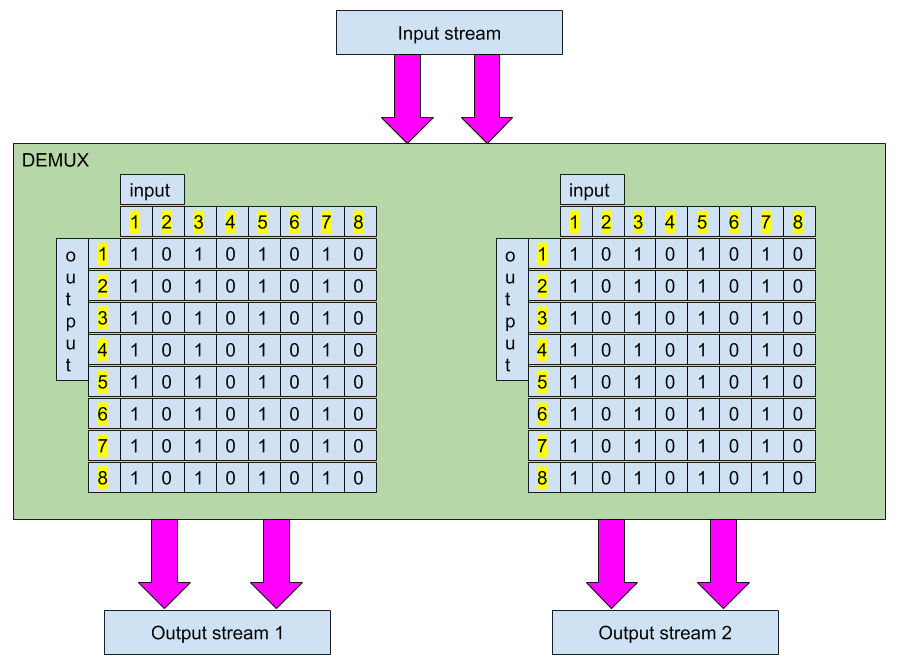
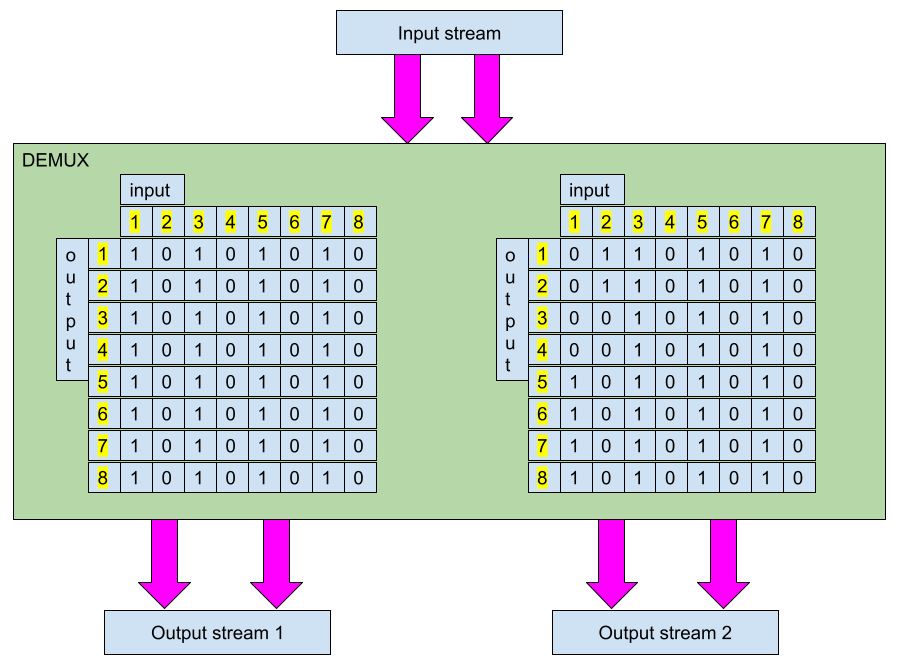
algos: fix demux documentation

diff --git a/algos/demux/demux.rst b/algos/demux/demux.rst
@@ -30,22 +30,29 @@ is fully configurable, we have a matrix for all multiplexer input
 streams or all demultiplexer output streams. The 8 x 8 binary matrix takes up
 to 64 bits and is controlled with eight unsigned char values.
 
+.. note::
+        mux/demux component can't mix channels. If you try to setup mixing
+        in the configuration matrix you will get error in component initialization
+        phase.
+
 .. figure:: images/mux.png
 
    Example of multiplexer configuration matrices with 2 input streams.
-   In this artificial mux example, Input stream 1’s channel 1 is copied
-   to both output channels; Input stream 2’s single channel is copied
-   to output channel 1.
+   In this artificial mux example first input stream's channel 1 is copied
+   to output stream's channel 1. Second input stream's channel 2 is copied
+   to output stream's channel 2. If the streams have only 2 channels the
+   matrix values outside the 2x2 square don't have any effect.
 
 .. figure:: images/demux.png
 
    Example of demultiplexer configuration matrices with 2 output streams.
-   In this artificial demux example, Input stream’s channel 1 is copied to
-   all output streams channels (1 channel to 4 identical channels in 2
-   output streams).
+   In this artificial demux example input stream's channel 1 is copied to
+   first output stream's both channels and input stream's channel 2 is copied
+   to second output stream both channels.
 
-Using a routing matrix means also that this component can leave out
-channels or mix multiple channels into one.
+.. note::
+        Note that demux matrix configuration is opposite to mux configuration:
+	input channel is the matrix column and output is the row.
 
 Topology
 ========
